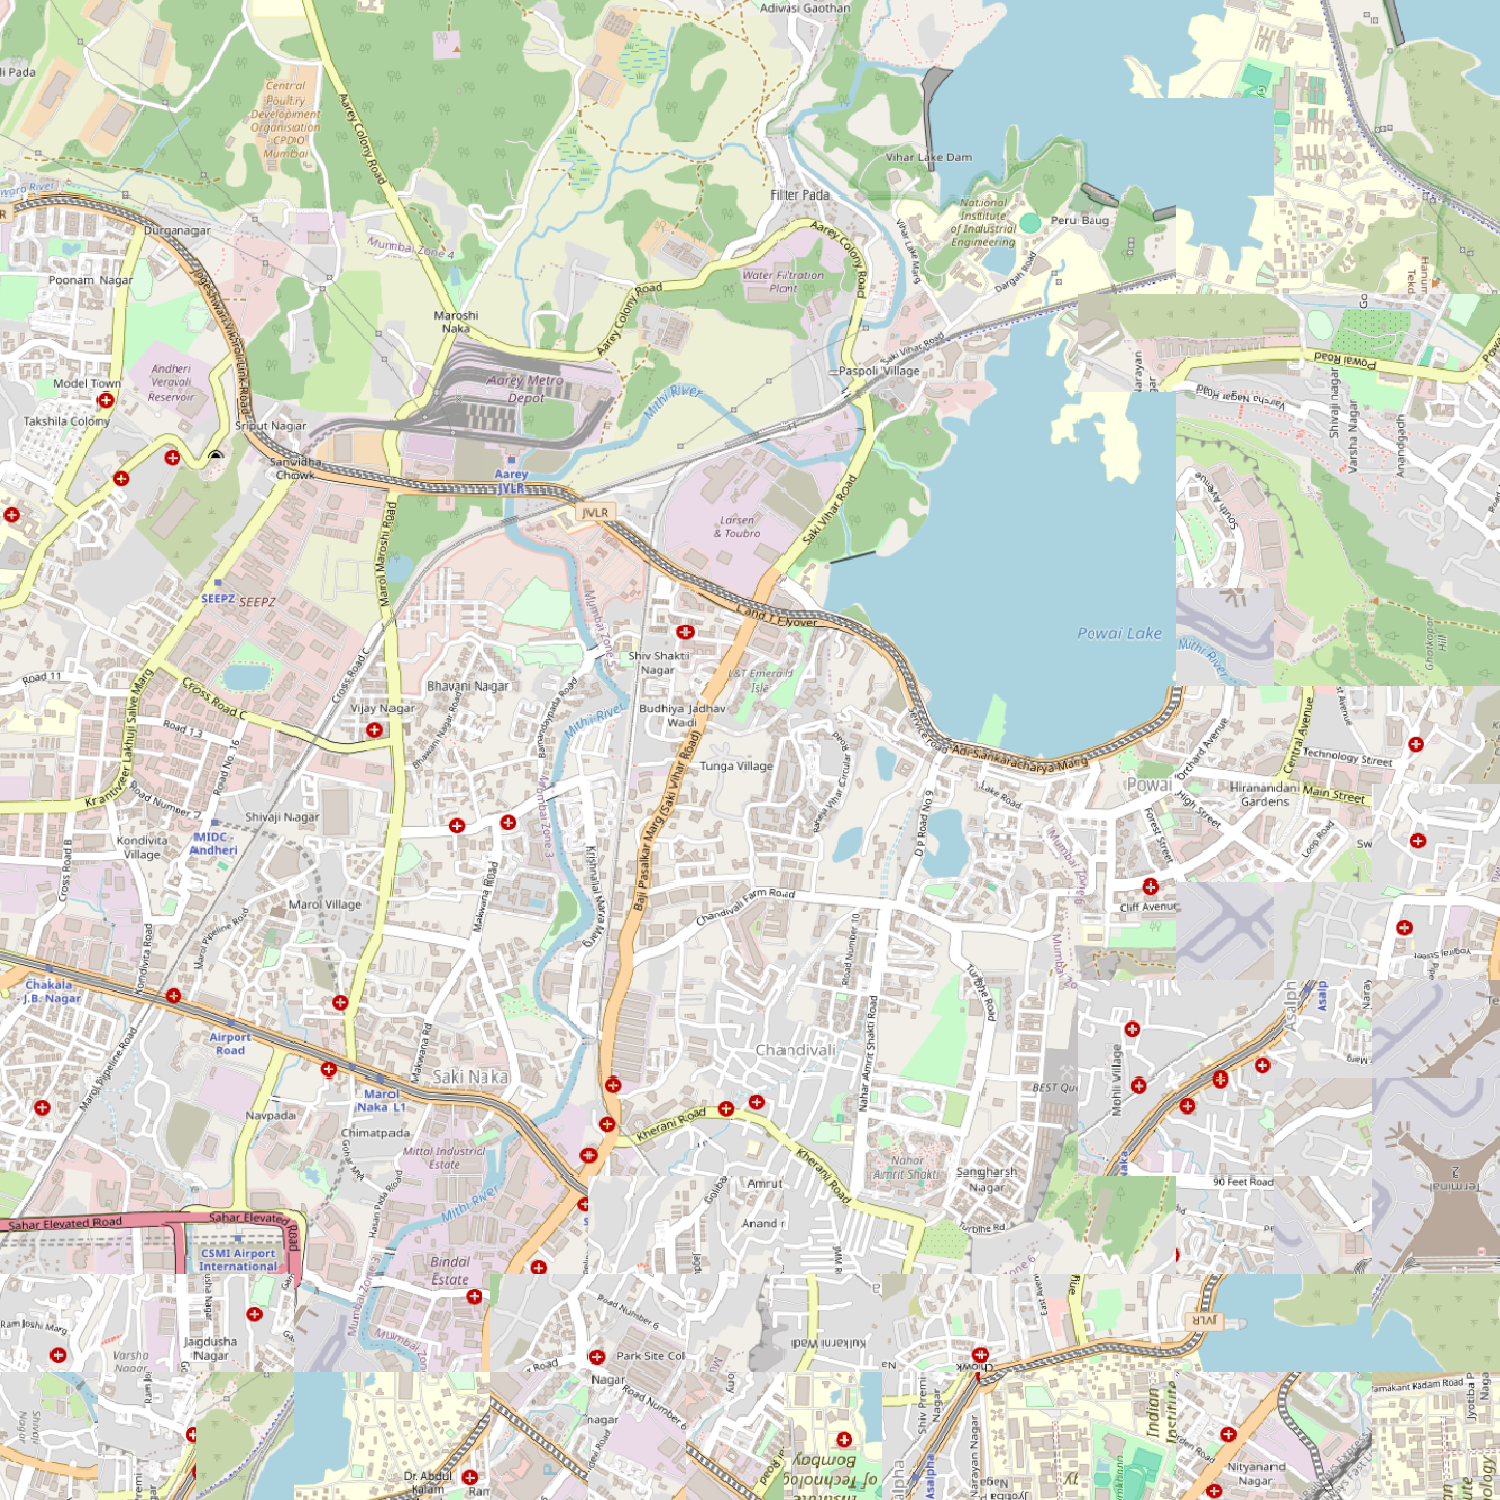
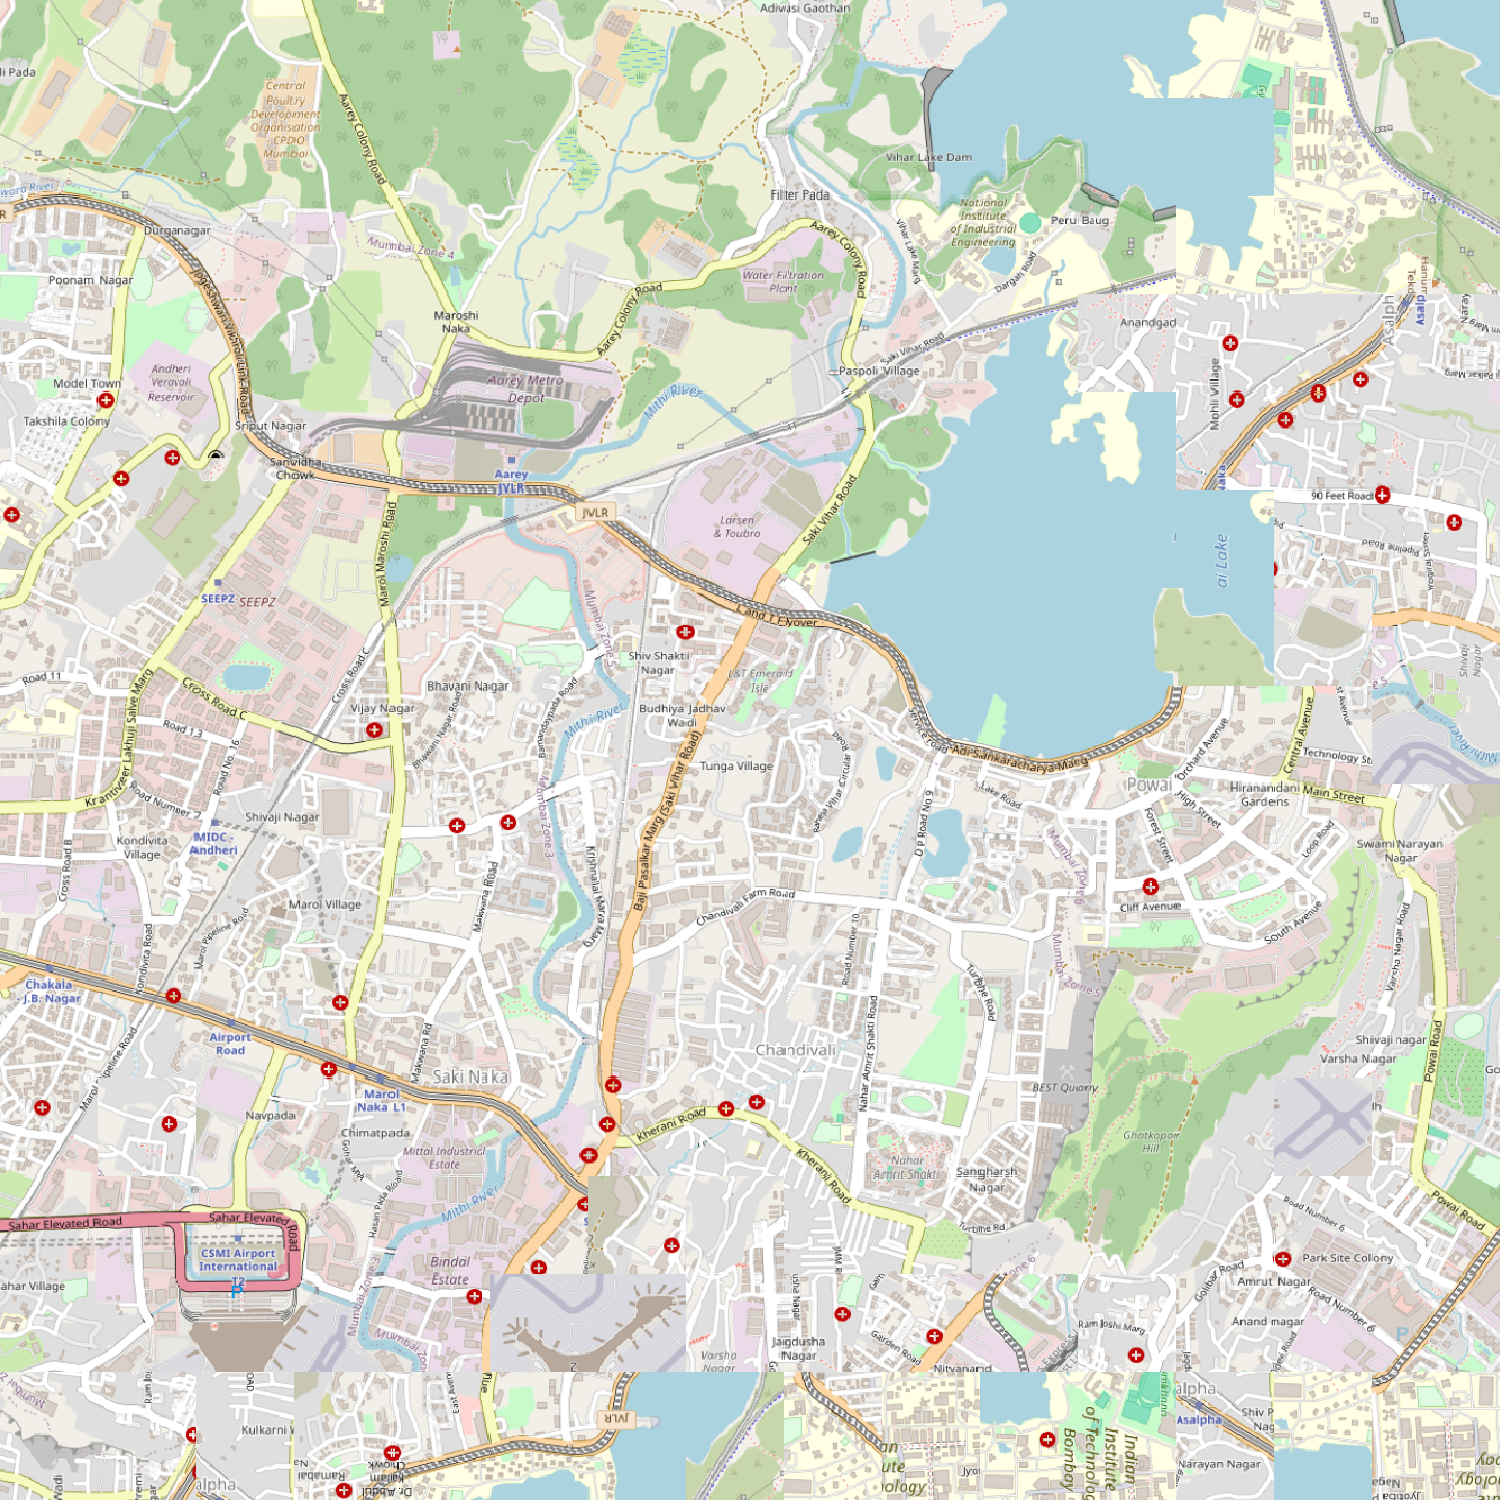
added a little gaussian blur

Changed region(s): [[0.0, 0.184, 1.0, 1.0], [0.0613, 0.7053, 0.1533, 0.7973], [0.3067, 0.828, 0.3373, 0.8587]]

diff --git a/PROJECT/main.py b/PROJECT/main.py
@@ -39,8 +39,8 @@ def rotations(img):
 
 def get_score(img_a, img_b, direction):
     best_match = -1.0
-    # Search for the "lock" within a small range
-    for offset in range(OVERLAP - 2, OVERLAP + 3):
+    # Use a slightly wider range if the drift persists
+    for offset in range(OVERLAP - 4, OVERLAP + 5):
         if direction == "right":
             edge_a = img_a[:, -offset:]
             edge_b = img_b[:, :offset]
@@ -48,7 +48,11 @@ def get_score(img_a, img_b, direction):
             edge_a = img_a[-offset:, :]
             edge_b = img_b[:offset, :]
         
-        res = cv2.matchTemplate(edge_a, edge_b, cv2.TM_CCORR_NORMED)
+        # CCORR_NORMED is good, but adding a small blur can help with compression noise
+        edge_a_blur = cv2.GaussianBlur(edge_a, (3,3), 0)
+        edge_b_blur = cv2.GaussianBlur(edge_b, (3,3), 0)
+        
+        res = cv2.matchTemplate(edge_a_blur, edge_b_blur, cv2.TM_CCORR_NORMED)
         best_match = max(best_match, res[0][0])
     return best_match
 